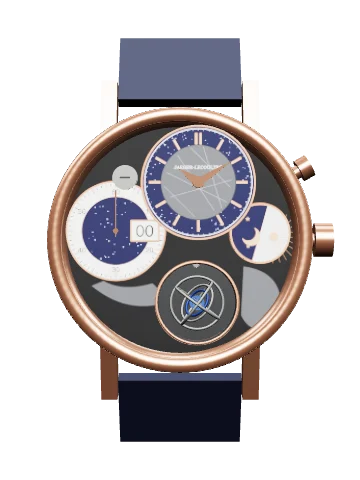
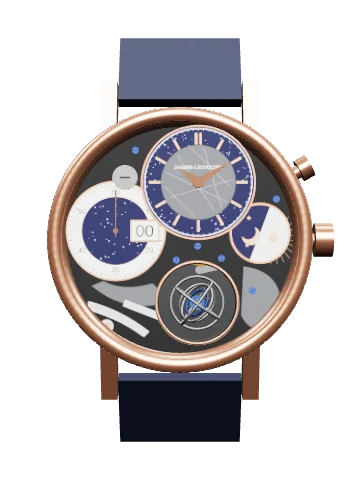
Gyrotourbillon 3: trace the back from SJX's photograph, add front detail
Back: three bridges with the winding channel between them, meteorite panels, seven jewels in gold settings, fifteen blued screws, the winding wheel, the gold wheel in mesh with the tourbillon's pinion under its steel cock, and a second gold wheel in its opening. Front: fixed toothed ring round the tourbillon, six blued screws, stand-in chronograph levers. The record states which positions are measured, which outlines and counts are estimated, and what is left out.

diff --git a/workbench/watches/jlc-gyrotourbillon-3.js b/workbench/watches/jlc-gyrotourbillon-3.js
@@ -24,7 +24,7 @@ export default {
   asset: {
     type: 'procedural',
     builder: 'round-chronograph',
-    note: 'A partial model. The front is laid out from photographs of the watch: the three dials, the column wheel and the tourbillon’s opening are where they show them. The tourbillon is a simplified stand-in that turns on two axes at the reported speeds; its cages are not the real ones. On the back, a winding wheel and two gold wheels are placed from a photograph. The rest of the movement is left out. Not a factory model or scan.',
+    note: 'A partial model. The front is laid out from photographs of the watch: the three dials, the column wheel and the tourbillon’s opening are where they show them. The tourbillon is a simplified stand-in that turns on two axes at the reported speeds; its cages are not the real ones. The back is traced from a photograph: three bridges with their meteorite panels, jewels and blued screws, the winding wheel, and the gold wheels that show between the bridges. What lies under the bridges is left out. Not a factory model or scan.',
     params: { thickness: 15.8, lugToLug: 52, lugWidth: 21, movementDiameter: 36, beatsPerHour: 28800, calibre: '176', front: 'gyro3', chrono: false, noSeconds: true, monoPusher: true, dustCover: false, metal: 'rose', strapKind: 'navy', hands: 'dauphine', handsAt: [3.0, 9.4, 0.72], handLen: 8.0, handWidth: 0.8, plate: 'steel', bezelInsert: false, crownR: 2.8, dome: 3.6, crystalOpacity: 0.045 }
   },
   images: [],
@@ -58,8 +58,8 @@ export default {
     { h: 'Reading the front', s: 'D', p: 'There is no single dial. At the top, a small dial tells the time. On the left, the chronograph: its hand counts seconds round a white ring, and the gold-framed window beside it shows elapsed minutes on two discs, one for tens and one for units, which jump at the instant each minute ends. Just above that dial, a steel cap covers the column wheel that controls the chronograph. On the right, a disc turns once a day to show sun or moon. At the bottom, the tourbillon turns in the open.' },
     { h: 'A dial made of meteorite', s: 'D', p: 'The centre of the time dial is a slice of iron meteorite from Namibia, etched to bring out its crossing streaks, which are crystals of iron and nickel that formed as it cooled over a very long time in space. The blue rings are aventurine glass, which sparkles like a night sky. The ring of the chronograph dial is white enamel. Meteorite is also inlaid in the German silver bridges, front and back.' },
     { h: 'The movement', s: 'D', p: 'Calibre 176 has 592 parts, about as many as a minute repeater with a tourbillon and a perpetual calendar. Two mainspring barrels give it 45 hours of running. The chronograph uses a column wheel and a vertical clutch.' },
-    { h: 'How it was laid out', s: 'E', p: 'The centres and sizes of the three dials and of the tourbillon’s opening are measured from a front photograph of the watch, scaled to its 43.5 mm case, to about 0.5 mm, and checked against a second front photograph, which agrees. The column wheel’s cap is placed from a close-up in SJX Watches’ review of 2019. On the back, the winding wheel, the large gold wheel beside the tourbillon with the small pinion it turns, and a second gold wheel are placed from SJX’s photograph of the whole back. That photograph is turned and slightly angled, so those positions are good only to about 1.5 mm.' },
-    { h: 'What is left out, and why', s: 'I', p: 'No maker’s drawing of calibre 176 is published. The tourbillon is a stand-in made of plain rings: its two cages really are intricate openwork frames, and the axes they turn on here are illustrative, though their speeds and directions are the reported ones. On the back, the two barrels, the rest of the going train, the escapement inside the cage, the chronograph work and the day and night work are left out, and two plain grey panels stand in for bridges whose real outlines are not reproduced. The chronograph does not run, the minute window always reads 00, and the day and night disc is set once, to the hour the page was opened. On the front, the wheels and levers that show between the dials in the real watch are replaced by a dark ground and two plain grey panels. The pusher is drawn round, the bezel is a plain ring where the real one is broad and concave, and the back is drawn solid although the real one is glazed.' }
+    { h: 'How it was laid out', s: 'E', p: 'Front: the centres and sizes of the three dials and of the tourbillon’s opening are measured from a front photograph of the watch, scaled to its 43.5 mm case, to about 0.5 mm, and checked against a second front photograph, which agrees. The column wheel’s cap and six blued screws are placed from a close-up in SJX Watches’ review of 2019. Back: everything is traced from SJX’s photograph of the whole back. That view is turned and taken at an angle, so it was fitted to the front by the tourbillon’s opening and by the directions of the crown and the strap. Traced from it are three bridges and the channel that winds between them, the meteorite inlaid in two of them, seven jewels in gold settings, fifteen blued screws, the steel winding wheel, the large gold wheel in the channel with the steel pinion it meets at the edge of the tourbillon, and a second gold wheel in an opening of the right-hand bridge. One of the jewels falls on the centre of the movement, which supports the fit. Positions on the back are good to about 1.5 mm, and less near the edge.' },
+    { h: 'What is estimated, and what is left out', s: 'I', p: 'No maker’s drawing of calibre 176 is published. Estimated: the outlines of the bridges and of the meteorite panels, which are rough tracings; every height; every tooth count, since the teeth could not be counted in the photographs; and the turning of the gold wheel and its pinion, which are shown in mesh in the photographs but whose gearing is not known. What each wheel is for is a reading of the photographs. The tourbillon is a stand-in made of plain rings: its two cages really are intricate openwork frames, and the axes they turn on here are illustrative, though their speeds and directions are the reported ones. Left out: everything under the bridges, including the two barrels and the rest of the going train; the escapement inside the cage; the chronograph work and the day and night work. A third gold wheel, half hidden under a bridge in the photograph, is not modelled. On the front, three plain steel shapes stand in for the chronograph levers that show at the lower left of the real watch, and the ground between the dials is simplified. The chronograph does not run, the minute window always reads 00, and the day and night disc is set once, to the hour the page was opened. The pusher is drawn round, the bezel is a plain ring where the real one is broad and concave, and the back is drawn solid although the real one is glazed and engraved round its rim.' }
   ],
 
   components: [
@@ -105,7 +105,7 @@ export default {
       significance: '', related: ['case'] },
     { id: 'caseback', name: 'Caseback', group: 'Exterior', status: 'I', anchor: [0, 0, -7.0], face: -1,
       beginner: 'The lid on the back. Choose the Movement view to take it off.',
-      horologist: 'Shown as a plain solid back. The real watch has a glazed back, through which the bridges inlaid with meteorite can be seen.',
+      horologist: 'Shown as a plain solid back. The real watch has a glazed back, through which the bridges inlaid with meteorite can be seen. In SJX’s photograph its rim is engraved “Jubilee Edition” and “Limited Series”.',
       fn: 'Closes the case.', material: 'Pink gold',
       significance: '', related: ['case', 'spacer'] },
     { id: 'spacer', name: 'Movement ring', group: 'Exterior', status: 'I', anchor: [18.3, 0, 0.2], face: -1,
@@ -124,26 +124,41 @@ export default {
       horologist: 'The chronograph’s column wheel, capped with a steel disc and visible on the front just above the chronograph dial. Its place is measured from a close-up photograph. Only the cap is shown.',
       fn: 'Sequences start, stop and reset.', material: 'Steel',
       significance: '', related: ['pushers', 'chrono-works', 'dial'] },
-    { id: 'drive-wheel', name: 'Tourbillon driving wheel', group: 'Movement', status: 'E',
-      beginner: 'A gold wheel on the back, beside the tourbillon. It turns a tiny pinion at the edge of the cage, and that is what turns the tourbillon.',
-      horologist: 'The photographs of the back show a large gold wheel beside the tourbillon’s opening, in mesh with a small steel pinion that overhangs the edge of the cage. Both are placed from the photograph, to about 1.5 mm. Their sizes and tooth counts are estimates. In the model the pinion turns once a minute with the outer cage, and the wheel at the matching speed; that gearing is an assumption.',
-      fn: 'Carries power from the going train to the tourbillon.', material: 'Gold-coloured wheel, steel pinion',
-      significance: '', related: ['gyrotourbillon', 'second-wheel', 'going-train'] },
-    { id: 'second-wheel', name: 'Second gold wheel', group: 'Movement', status: 'I',
-      beginner: 'Another gold wheel, visible through an opening in the bridges on the back.',
-      horologist: 'A gold wheel that shows in an opening of the bridges, placed from the photograph to about 1.5 mm. What it belongs to is not known here, and it does not turn in the model.',
+    { id: 'drive-wheel', name: 'Gold wheel and tourbillon pinion', group: 'Movement', status: 'E',
+      beginner: 'A gold wheel on the back, in the channel between the bridges. It meets a tiny steel pinion at the edge of the tourbillon, held under a small steel bridge.',
+      horologist: 'The photographs of the back show a large gold wheel in the channel between the bridges, in mesh with a small steel pinion that overhangs the edge of the tourbillon’s opening under a small steel cock. All three are placed from the photograph, to about 1.5 mm, and then set so that wheel and pinion mesh. Their sizes are estimates and their teeth were not counted. In the model the pinion turns once a minute with the outer cage, and the wheel at the matching speed; that the pinion drives the cage, and that gearing, are assumptions.',
+      fn: 'Taken to carry power from the going train to the tourbillon.', material: 'Gold-coloured wheel, steel pinion and cock',
+      significance: '', related: ['gyrotourbillon', 'second-wheel', 'back-bridges', 'going-train'] },
+    { id: 'second-wheel', name: 'Second gold wheel', group: 'Movement', status: 'E',
+      beginner: 'Another gold wheel, visible through a round opening in the right-hand bridge.',
+      horologist: 'A spoked gold wheel that shows in an opening of the right-hand bridge, placed from the photograph to about 1.5 mm. Its size is an estimate and its teeth were not counted. What it belongs to is not known here, and it does not turn in the model.',
       fn: 'Part of the going train.', material: 'Gold-coloured wheel',
-      significance: '', related: ['drive-wheel', 'going-train'] },
+      significance: '', related: ['drive-wheel', 'back-bridges', 'going-train'] },
     { id: 'ratchet', name: 'Winding wheel', group: 'Movement', status: 'E',
-      beginner: 'The large steel wheel on the back, near the crown. Winding the crown turns it, which tightens the mainsprings beneath.',
-      horologist: 'A large steel wheel with a polished centre, near the crown, taken to be the ratchet wheel over a barrel. Its place and size are measured from the photograph, to about 1.5 mm. The two barrels themselves are not modelled.',
+      beginner: 'The large steel wheel on the back, on the crown’s side. Winding the crown turns it, which tightens the mainsprings beneath.',
+      horologist: 'A large steel wheel with a polished centre engraved with the maker’s name, taken to be the ratchet wheel over a barrel. Its place and size are measured from the photograph, to about 1.5 mm; its teeth were not counted. The two barrels themselves are not modelled.',
       fn: 'Winds a mainspring and holds it wound.', material: 'Steel',
-      significance: '', related: ['crown', 'going-train'] },
-    { id: 'back-bridges', name: 'Bridges', group: 'Movement', status: 'I',
-      beginner: 'Two grey plates standing in for the bridges on the back. In the real watch they are inlaid with meteorite.',
-      horologist: 'The real bridges are of German silver, straight-grained, inlaid with panels of meteorite, and cover most of the back. Here two plain grey panels, placed by eye, stand in for them; their outlines, screws and jewels are not reproduced.',
-      fn: 'Hold the upper pivots of the wheels beneath them.', material: 'German silver inlaid with meteorite',
-      significance: 'Meteorite is a stone and cannot be cut as finely as metal, so on the real watch a small gap shows round each panel.', related: ['plate', 'ratchet'] },
+      significance: '', related: ['crown', 'back-bridges', 'going-train'] },
+    { id: 'back-bridges', name: 'Bridges', group: 'Movement', status: 'E',
+      beginner: 'Three plates that cover most of the back and hold the wheels in place. A winding channel runs between them, and the gold wheel sits in it.',
+      horologist: 'Three bridges of German silver, straight-grained on the real watch: one on the crown’s side under the winding wheel, a large one on the far side, and a small one beside the tourbillon. Their outlines are rough tracings of the photograph, with the channel between them and the round opening for the second gold wheel where it shows them.',
+      fn: 'Hold the upper pivots of the wheels beneath them.', material: 'German silver',
+      significance: '', related: ['meteorite-panels', 'screws', 'jewels', 'plate'] },
+    { id: 'meteorite-panels', name: 'Meteorite panels', group: 'Movement', status: 'I',
+      beginner: 'Slices of meteorite set into the bridges, as on the dial.',
+      horologist: 'Panels of etched iron meteorite are inlaid in recesses in the bridges. Two are shown, roughly where the photograph shows the largest areas of meteorite; their true outlines are not reproduced, and they are drawn as plain grey.',
+      fn: 'Decoration.', material: 'Iron meteorite from Namibia',
+      significance: 'Meteorite is a stone and cannot be cut as finely as metal, so on the real watch a small gap shows round each panel.', related: ['back-bridges', 'dial'] },
+    { id: 'screws', name: 'Blued screws', group: 'Movement', status: 'E',
+      beginner: 'The blue dots. They are steel screws, heated until they turn blue, that hold the bridges down.',
+      horologist: 'Fifteen blued screws, each placed from the photograph to about 1.5 mm. More may be hidden outside the view.',
+      fn: 'Fix the bridges to the plate.', material: 'Blued steel',
+      significance: '', related: ['back-bridges'] },
+    { id: 'jewels', name: 'Jewels', group: 'Movement', status: 'E',
+      beginner: 'The small red dots in gold rings. They are hard synthetic rubies used as bearings so the pivots hardly wear.',
+      horologist: 'Seven jewels in gold settings, each placed from the photograph to about 1.5 mm, with one more on each gold wheel. One falls on the centre of the movement. The calibre’s full jewel count was not verified.',
+      fn: 'Low-friction, wear-resistant bearings for the pivots.', material: 'Synthetic ruby, gold settings',
+      significance: '', related: ['back-bridges'] },
     { id: 'plate', name: 'Main plate', group: 'Movement', status: 'I', anchor: [-12, 6, 0.2], face: -1,
       beginner: 'The metal base of the movement, with an opening for the tourbillon.',
       horologist: 'A plain disc with a round opening for the tourbillon. Its diameter is an estimate.',
@@ -151,7 +166,7 @@ export default {
       significance: '', related: ['gyrotourbillon', 'going-train'] },
     { id: 'going-train', name: 'Barrel and going train (not modelled)', group: 'Movement', status: 'I',
       beginner: 'The two mainsprings and most of the wheels that carry their power to the tourbillon. They are not shown.',
-      horologist: 'Two barrels and the train that drives the tourbillon cage. Only the winding wheel and the two wheels that show on the back are modelled; the photographs do not show where the rest lie.',
+      horologist: 'Two barrels and the train that drives the tourbillon cage. Only the winding wheel and the two gold wheels that show on the back are modelled; the rest lies under the bridges, and the photographs do not show where.',
       fn: 'Stores energy and carries it to the tourbillon.', material: 'Not modelled', location: 'Behind the dials.',
       significance: '', related: ['gyrotourbillon', 'crown'] },
     { id: 'chrono-works', name: 'Chronograph work (not modelled)', group: 'Movement', status: 'I',

diff --git a/workbench/model.js b/workbench/model.js
@@ -606,21 +606,39 @@ export function buildProcedural(watch, face, tex) {
     gy.add(outer); outer.add(tilt); tilt.rotation.y = 0.95; tilt.add(innerCage); innerCage.add(balSpin);
     const hoop = (r, tube, kind, rx, ry) => { const m = mk(new THREE.TorusGeometry(r, tube, 8, 72), kind, { noEdges: true }); m.rotation.set(rx, ry, 0); return m; };
     outer.add(hoop(4.3, 0.22, 'iron', 0, 0), hoop(4.3, 0.22, 'iron', Math.PI / 2, 0), hoop(4.3, 0.22, 'iron', 0, Math.PI / 2)); // matt grey, for cages of blasted aluminium
-    innerCage.add(hoop(3.3, 0.2, 'iron', 0, 0), hoop(3.3, 0.2, 'iron', Math.PI / 2, 0));
+    innerCage.add(hoop(3.3, 0.2, 'iron', 0, 0), hoop(3.3, 0.2, 'iron', Math.PI / 2, 0), hoop(3.3, 0.2, 'iron', 0, Math.PI / 2));
+    for (let k = 0; k < 8; k++) { const a = k * Math.PI / 4; balSpin.add(at(mk(cyl(0.2, 0.3, 8), 'gold', { noEdges: true }), 2.3 * Math.cos(a), 2.3 * Math.sin(a), 0)); } // weights on the rim of the balance; their number is not counted
     balSpin.add(mk(new THREE.TorusGeometry(2.3, 0.2, 8, 56), 'blue', { edgeAngle: 50 }), mk(new THREE.BoxGeometry(4.5, 0.3, 0.2), 'blue'), at(mk(cyl(0.3, 0.25, 12), 'ruby'), 0, 0, 0.3)); // the balance is blued gold
     const ball = []; for (let i = 0; i <= 260; i++) { const t = i / 260, ph = 0.2 * Math.PI + t * 0.6 * Math.PI, a = t * Math.PI * 2 * 8; ball.push(new THREE.Vector3(1.15 * Math.sin(ph) * Math.cos(a), 1.15 * Math.sin(ph) * Math.sin(a), 1.15 * Math.cos(ph))); }
     const bl = new THREE.Line(new THREE.BufferGeometry().setFromPoints(ball), new THREE.LineBasicMaterial({ color: 0x4a78d0 })); bl.raycast = () => {}; balSpin.add(bl);
     gy.userData.anchor = [0, 0, -5.2];
-    /* The back, from SJX Watches' photographs of it (2019): a steel winding wheel near the crown, a large gold wheel beside the tourbillon turning a small pinion at the
-       cage's edge, and a second gold wheel in an opening. They are placed from a view of the whole back that is turned and slightly angled, good to about 1.5 mm. Two plain
-       grey panels stand in for the bridges, which in the real watch cover most of the back and are inlaid with meteorite; their outlines are not reproduced. */
-    const TB = [-G3.tb[0], G3.tb[1]];
-    layer(multi('back-bridges', [[[-2.0, 11.4, 6.2], [-9.0, 6.0, 4.0]], [[10.0, 6.0, 5.5], [11.0, -6.0, 5.0]]], 0.05, 1.2, 'iron'), 3);
-    const rw = at(part('ratchet', mv), -2.0, 11.4, 0); rw.add(at(mk(extr(gearShape(6.3, 72, 0.25, 0), 0.3), 'steel', { edgeAngle: 40 }), 0, 0, 1.3), at(mk(cyl(3.6, 0.2, 40), 'steel'), 0, 0, 1.7), at(mk(new THREE.BoxGeometry(1.6, 0.24, 0.1), 'ink', { noEdges: true }), 0, 0, 1.83)); rw.userData.anchor = [0, 0, 2.0]; layer(rw, 6);
-    const dw = part('drive-wheel', mv), dwSpin = mobile(null, TB[0] + 0.1, TB[1] + 9.7, { R: 2.9, n: 72, tooth: 0.12, z: 1.5, th: 0.2, spokes: 5, arbor: 1.7 }, dw), pinSpin = new THREE.Group();
-    pinSpin.position.set(TB[0] + 0.1, TB[1] + 6.2, 0); pinSpin.add(at(mk(extr(gearShape(0.6, 10, 0.14, 0), 0.5), 'steelDark', { edgeAngle: 40 }), 0, 0, 1.35)); dw.add(pinSpin); dw.userData.anchor = [TB[0] + 0.1, TB[1] + 9.7, 2.0]; layer(dw, 6);
-    const sw = part('second-wheel', mv); mobile(null, 9.1, -2.6, { R: 2.0, n: 56, tooth: 0.12, z: 1.5, th: 0.2, spokes: 4, arbor: 1.7 }, sw); sw.userData.anchor = [9.1, -2.6, 2.0]; layer(sw, 6);
-    M.extraAnim = tv => { const a = tv * Math.PI * 2 / 60; outer.rotation.z = a; innerCage.rotation.x = -a * 2.5; pinSpin.rotation.z = a; dwSpin.rotation.z = -a * 0.6 / 2.9; }; // the outer cage turns once a minute and the inner two and a half times, the opposite way, as the maker's figures have it
+    /* The back, traced from SJX Watches' photograph of the whole back (2019). That view is turned and taken at an angle, so it was fitted to this layout by the tourbillon's
+       opening and the directions of the crown and the strap; positions are good to about 1.5 mm, less near the edge. Traced from it: three bridges and the winding channel
+       between them, with rough outlines; the meteorite inlaid in two of them; seven jewels and fifteen blued screws; the steel winding wheel; the large gold wheel in the
+       channel and the steel pinion it meets at the edge of the tourbillon, under a small steel cock; and a second gold wheel in an opening of the right-hand bridge. One jewel
+       falls on the centre of the movement, which supports the fit. Heights, tooth counts and the turning of the wheel and pinion are estimates. */
+    const TB = [-G3.tb[0], G3.tb[1]], RIM = 17.5, dg2 = Math.PI / 180;
+    const arc = (c, r, a0, a1, st = 3) => { const o = [], n = Math.max(1, Math.round(Math.abs(a1 - a0) / st)); for (let k = 0; k <= n; k++) { const a = (a0 + (a1 - a0) * k / n) * dg2; o.push([c[0] + r * Math.cos(a), c[1] + r * Math.sin(a)]); } return o; };
+    const poly = pts => { const sh = new THREE.Shape(); pts.forEach((q, k) => (k ? sh.lineTo(q[0], q[1]) : sh.moveTo(q[0], q[1]))); sh.closePath(); return sh; };
+    const W3 = [7.5, -3.1], upper = poly(arc([0, 0], RIM, 65, 200).concat([[-9.4, 0.7], [-2.9, 2.2], [2.2, 4.8], [5.9, 12.7]]));
+    const right = poly([[-1.8, 1.4], [0.2, -2.6]].concat(arc(TB, 7.6, 62, -38), arc([0, 0], RIM, -50, 60), [[6.8, 12.0], [3.0, 3.9]])), hole = new THREE.Path(); hole.absarc(W3[0], W3[1], 2.7, 0, Math.PI * 2, true); right.holes.push(hole);
+    const left = poly(arc([0, 0], RIM, 203, 239).concat(arc(TB, 7.6, 220, 125), [[-8.6, -1.2], [-9.9, -0.4]]));
+    const bridges = part('back-bridges', mv); for (const sh of [upper, right, left]) bridges.add(at(mk(extr(sh, 1.0), 'steel', { edgeAngle: 40 }), 0, 0, 0.05)); bridges.userData.anchor = [12, 6, 1.3]; layer(bridges, 3);
+    const met = part('meteorite-panels', mv);
+    met.add(at(mk(extr(poly([[-16, 0], [-15, 6], [-12.5, 11.5], [-11.8, 6], [-9.6, 2.2], [-13, -1.8]]), 0.08), 'iron', { edgeAngle: 40 }), 0, 0, 1.05), at(mk(extr(poly([[4.5, 3.5], [8, 10.5], [13.5, 8.5], [16, 2], [14.5, -5], [11.5, -3.5], [10.6, -0.8], [6.5, 0.6], [3.6, -1.5], [1.6, -1.2]]), 0.08), 'iron', { edgeAngle: 40 }), 0, 0, 1.05));
+    met.userData.anchor = [12, 3, 1.3]; layer(met, 3.4);
+    const scr = part('screws', mv);
+    for (const q of [[-16.9, 0.2], [-13.9, 9.6], [-12.0, 11.9], [-1.5, 15.5], [-8.0, 3.8], [-12.8, -5.8], [-2.6, 4.1], [7.8, 12.0], [2.4, 2.9], [-8.9, -2.9], [1.2, -3.2], [3.8, -5.2], [13.95, 3.9], [7.6, -10.7], [12.5, -6.0]]) scr.add(at(mk(cyl(0.55, 0.2, 16), 'blue'), q[0], q[1], 1.25), at(mk(new THREE.BoxGeometry(0.85, 0.12, 0.04), 'ink', { noEdges: true }), q[0], q[1], 1.36));
+    scr.userData.anchor = [13.95, 3.9, 1.5]; layer(scr, 4);
+    for (const q of [[-12.6, 7.2], [-11.7, 4.3], [0.6, 13.3], [1.9, 10.1], [0.6, 0.4], [7.2, 6.5], [8.1, 0.9]]) { jewel(q[0], q[1], 1.24, 4); jw.add((c => { layer(c, 4); return c; })(at(mk(new THREE.TorusGeometry(0.62, 0.13, 8, 24), 'gold', { noEdges: true }), q[0], q[1], 1.24))); } // each in a gold setting
+    const rw = at(part('ratchet', mv), -5.3, 10.0, 0); rw.add(at(mk(extr(gearShape(6.2, 72, 0.25, 0), 0.3), 'steel', { edgeAngle: 40 }), 0, 0, 1.45), at(mk(cyl(3.5, 0.2, 40), 'steel'), 0, 0, 1.85), at(mk(new THREE.BoxGeometry(1.6, 0.24, 0.1), 'ink', { noEdges: true }), 0, 0, 1.98)); rw.userData.anchor = [0, 0, 2.1]; layer(rw, 6);
+    const DW = [-3.63, -0.85], PN = [-3.26, -5.02]; // set so that the wheel and the pinion mesh; each is within about a millimetre of where it was measured
+    const dw = part('drive-wheel', mv), dwSpin = mobile(null, DW[0], DW[1], { R: 3.6, n: 84, tooth: 0.12, z: 1.5, th: 0.2, spokes: 5, arbor: 1.7 }, dw), pinSpin = new THREE.Group();
+    pinSpin.position.set(PN[0], PN[1], 0); pinSpin.add(at(mk(extr(gearShape(0.55, 10, 0.14, 0), 0.5), 'steelDark', { edgeAngle: 40 }), 0, 0, 1.35)); dw.add(pinSpin);
+    dw.add(at(mk(extr(hullShape([[PN[0], PN[1], 0.7], [-6.9, -4.3, 0.6]]), 0.25), 'steel', { edgeAngle: 40 }), 0, 0, 1.95), at(mk(cyl(0.3, 0.14, 12), 'ruby'), DW[0], DW[1], 1.74)); // the small steel cock over the pinion, and the wheel's own jewel
+    dw.userData.anchor = [DW[0], DW[1], 2.0]; layer(dw, 6);
+    const sw = part('second-wheel', mv); mobile(null, W3[0], W3[1], { R: 2.2, n: 60, tooth: 0.12, z: 0.6, th: 0.2, spokes: 4, arbor: 0.9 }, sw); sw.add(at(mk(cyl(0.3, 0.14, 12), 'ruby'), W3[0], W3[1], 0.86)); sw.userData.anchor = [W3[0], W3[1], 1.2]; layer(sw, 5);
+    M.extraAnim = tv => { const a = tv * Math.PI * 2 / 60; outer.rotation.z = a; innerCage.rotation.x = -a * 2.5; pinSpin.rotation.z = a; dwSpin.rotation.z = -a * 0.55 / 3.6; }; // the outer cage turns once a minute and the inner two and a half times, the opposite way, as reported for the calibre
     Object.assign(M, { balSpin, palRock, hsPos, hsGeo, HN, interRatio: 1 });
   } else if (P.calibre === '11') {
     /* Heuer Calibre 11 (Buren micro-rotor base, Dubois Depraz chronograph module). No dimensioned maker's drawing was available. Positions of the barrel, the large driving

diff --git a/draw.js b/draw.js
@@ -345,7 +345,11 @@ function gyro3(w, g, o) {
   let s = Pa(g.dial, 'tn g3-base');
   /* two grey panels stand in for the bridges inlaid with meteorite; their real outlines are not reproduced */
   s += Pa(`M${f(bx + 7.6)},${f(-by - 6)}Q${f(bx + 15)},${f(-by - 5)} ${f(bx + 13.5)},${f(-by + 3)}Q${f(bx + 9)},${f(-by + 6)} ${f(bx + 7.2)},${f(-by + 2)}Z`, 'tn g3-met') + Pa(`M${f(sx - 4)},${f(-sy + 9)}Q${f(sx + 2)},${f(-sy + 14)} ${f(sx + 9)},${f(-sy + 11.5)}L${f(sx + 6)},${f(-sy + 8.6)}Q${f(sx + 1)},${f(-sy + 10)} ${f(sx - 2)},${f(-sy + 8.2)}Z`, 'tn g3-met');
+  /* three steel levers stand in for the chronograph work that shows at the lower left of the real watch; their shapes are not reproduced */
+  s += Pa(`M${f(sx - 4.5)},${f(-sy + 11.5)}Q${f(sx + 1)},${f(-sy + 13)} ${f(sx + 5.5)},${f(-sy + 16.5)}L${f(sx + 4.6)},${f(-sy + 17.4)}Q${f(sx + 0.5)},${f(-sy + 14.4)} ${f(sx - 4.8)},${f(-sy + 12.9)}Z`, 'p g3-steel') + Pa(`M${f(sx + 1.5)},${f(-sy + 11.2)}L${f(sx + 7.6)},${f(-sy + 13.6)}L${f(sx + 7.2)},${f(-sy + 14.7)}L${f(sx + 1.1)},${f(-sy + 12.3)}Z`, 'p g3-steel') + C(1.1, sx - 1.5, -sy + 15.6, 'p g3-steel') + C(0.45, sx - 1.5, -sy + 15.6, 'p g3-rim');
   s += C(br + 0.5, bx, -by, 'p g3-rim') + C(br, bx, -by, 'k g3-hole');
+  for (let i = 0; i < 72; i++) s += rad(i * 5, br + 0.02, br + 0.42, 't g3-teeth', bx, -by); // the fixed toothed ring round the tourbillon
+  [[-7.3, 14.7], [15.8, 6.7], [6.8, -3.0], [-0.6, -3.3], [11.9, -8.3], [2.9, -1.0]].forEach((q, k) => { s += C(0.55, q[0], -q[1], 'p g3-screw') + `<g transform="rotate(${k * 37} ${f(q[0])} ${f(-q[1])})">${L(q[0] - 0.42, -q[1], q[0] + 0.42, -q[1], 't g3-ink')}</g>`; }); // blued screws, placed from a close-up
   s += C(G3.cw[2], G3.cw[0], -G3.cw[1], 'p g3-steel') + C(G3.cw[2] * 0.62, G3.cw[0], -G3.cw[1], 'p g3-steel') + L(G3.cw[0] - 0.8, -G3.cw[1] + 0.35, G3.cw[0] + 0.8, -G3.cw[1] - 0.35, 't g3-ink'); // the capped column wheel, with the slot of its screw
   /* day and night: a disc that turns once in 24 hours, set to the hour at which the page was opened */
   s += `<g transform="translate(${nx},${-ny}) rotate(${f((now.getHours() + now.getMinutes() / 60) * 15)})">` + C(nr, 0, 0, 'p g3-rim') + C(nr - 0.35, 0, 0, 'p g3-day') + Pa(`M${f(-nr + 0.35)},0A${f(nr - 0.35)},${f(nr - 0.35)} 0 0 1 ${f(nr - 0.35)},0Z`, 'tn g3-blue')
@@ -684,7 +688,7 @@ function face(w, real) {
   const mixed = real && !w.dial.dark ? `${w.bezel && w.bezel.dark ? '.bzd .tn{fill:#121212;stroke:#2b2b2b}.bzd text{fill:#f0ede2}.bzd .t,.bzd .hair{stroke:#e9e6da}.bzd .bar{stroke:#e9e6da}.bzd .k{fill:#e9e6da}' : ''}${w.dial.subDark ? '.tn2{fill:#161616;stroke:#2b2b2b}' : ''}` : '';
   const gold = real && w.dial.gold ? '.nm,.cal,.dl{fill:#cfa13a}.hc{fill:#cfa13a;stroke:#4a3c16}.mw{fill:#1b2a55;stroke:#cfa13a;stroke-width:.08}.mn{fill:#e3c060;stroke:none}.t,.hair{stroke:#b08a34}.k{fill:#cfa13a}' : '';
   const pinkHands = real && w.dial.goldHands ? '.hc{fill:#cf9a78;stroke:#5a3b2a}.mw{fill:#1b2a55;stroke:#5a3b2a;stroke-width:.08}.mn{fill:#e3c060;stroke:none}' : '';
-  const g3 = real && w.dial.custom === 'gyro3' ? '.g3-base{fill:#050506;stroke:none}.g3-met{fill:#5d5f63;stroke:#2f3033;stroke-width:.08}.g3-streak{stroke:#9a9c9f;stroke-width:.07}.g3-rim{fill:#c98d6b;stroke:#5a3b2a;stroke-width:.06}.g3-hole{fill:#09090a}.g3-blue{fill:#0a1340;stroke:#c98d6b;stroke-width:.06}.g3-white{fill:#f2f0e9;stroke:#8a8a86;stroke-width:.05}.g3-ink{stroke:#1a1a1a}.g3-inkf{fill:#1a1a1a;font-family:Helvetica,Arial,sans-serif}.g3-gold{fill:#dba886;stroke:#5a3b2a;stroke-width:.04}.g3-star{fill:#d5dcff}.g3-day{fill:#e3e1da;stroke:none}.g3-steel{fill:#b9bbbd;stroke:#4a4c4f;stroke-width:.07}.g3-sun{fill:#dba886;stroke:none}.g3-ray{stroke:#b98a64;stroke-width:.06}.g3-wt{stroke:#eef0ff}.g3-txt{fill:#e6e6e6}' : '';
+  const g3 = real && w.dial.custom === 'gyro3' ? '.g3-base{fill:#050506;stroke:none}.g3-met{fill:#5d5f63;stroke:#2f3033;stroke-width:.08}.g3-streak{stroke:#9a9c9f;stroke-width:.07}.g3-rim{fill:#c98d6b;stroke:#5a3b2a;stroke-width:.06}.g3-hole{fill:#09090a}.g3-blue{fill:#0a1340;stroke:#c98d6b;stroke-width:.06}.g3-white{fill:#f2f0e9;stroke:#8a8a86;stroke-width:.05}.g3-ink{stroke:#1a1a1a}.g3-inkf{fill:#1a1a1a;font-family:Helvetica,Arial,sans-serif}.g3-gold{fill:#dba886;stroke:#5a3b2a;stroke-width:.04}.g3-star{fill:#d5dcff}.g3-day{fill:#e3e1da;stroke:none}.g3-steel{fill:#b9bbbd;stroke:#4a4c4f;stroke-width:.07}.g3-screw{fill:#2a55a8;stroke:#0d1f45;stroke-width:.06}.g3-teeth{stroke:#c9cbcd;stroke-width:.09}.g3-sun{fill:#dba886;stroke:none}.g3-ray{stroke:#b98a64;stroke-width:.06}.g3-wt{stroke:#eef0ff}.g3-txt{fill:#e6e6e6}' : '';
   const s = `<style>${real ? (w.dial.dark ? REAL : REAL_LIGHT) : TECH}${mixed}${gold}${pinkHands}${g3}</style><circle r="${R}" fill="${real ? '#b5b5af' : '#EDE6D8'}"/><g class="bzd">${bezel(w, g)}</g>` + dial(w, g, { noHands: true });
   // The dial is drawn once as a picture, so the date window is filled here with today's date; on the plates it is filled live.
   const today = new Date(), DAYS3 = ['SUN', 'MON', 'TUE', 'WED', 'THU', 'FRI', 'SAT'];
